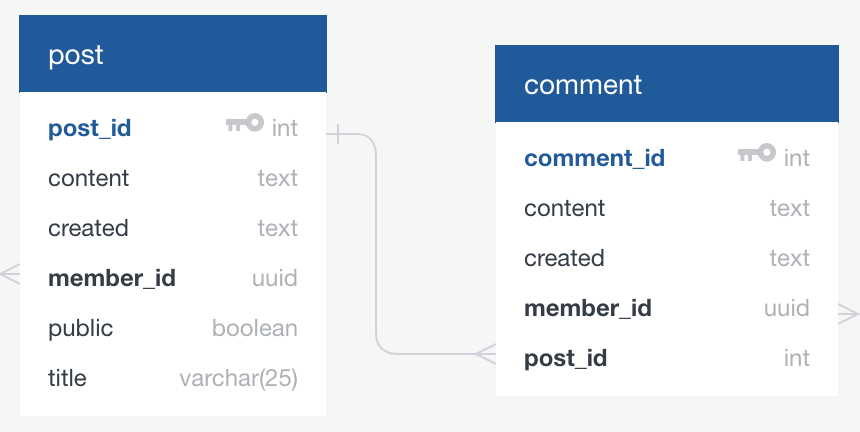
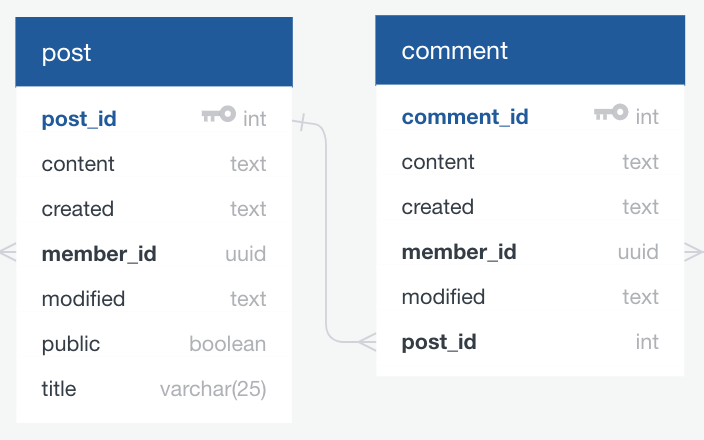
Add modified time for posts, comments and users

diff --git a/tests/test_thought_writer.py b/tests/test_thought_writer.py
@@ -50,12 +50,15 @@ class TestPost(CrystalPrismTestCase):
         self.assertEqual(post['public'], False)
         self.assertEqual(post['username'], self.username)
 
-        # Ensure created timestamp matches UTC format
+        # Ensure created and modified timestamps match UTC format
         timestamp_pattern = re.compile(
             r'\d{4}-[0-1]\d-[0-3]\dT[0-2]\d:[0-5]\d:[0-6]\d\.\d{3}Z'
             )
         self.assertEqual(bool(timestamp_pattern.match(
             post['created'])), True
+            )
+        self.assertEqual(bool(timestamp_pattern.match(
+            post['modified'])), True
             )
 
         self.assertEqual(user_data['post_count'], 1)
@@ -293,12 +296,14 @@ class TestPosts(CrystalPrismTestCase):
         self.assertEqual(all(
             isinstance(post['content'], str) for post in posts), True)
 
-        # Ensure each created timestamp matches UTC format
+        # Ensure each created and modified timestamp matches UTC format
         timestamp_pattern = re.compile(
             r'\d{4}-[0-1]\d-[0-3]\dT[0-2]\d:[0-5]\d:[0-6]\d\.\d{3}Z'
             )
         self.assertEqual(all(bool(timestamp_pattern.match(
             post['created'])) for post in posts), True)
+        self.assertEqual(all(bool(timestamp_pattern.match(
+            post['modified'])) for post in posts), True)
 
         # Ensure each post id is an integer
         self.assertEqual(all(isinstance(
@@ -386,12 +391,14 @@ class TestPosts(CrystalPrismTestCase):
         self.assertEqual(all(
             isinstance(post['content'], str) for post in posts), True)
 
-        # Ensure each created timestamp matches UTC format
+        # Ensure each created and modified timestamp matches UTC format
         timestamp_pattern = re.compile(
             r'\d{4}-[0-1]\d-[0-3]\dT[0-2]\d:[0-5]\d:[0-6]\d\.\d{3}Z'
             )
         self.assertEqual(all(bool(timestamp_pattern.match(
             post['created'])) for post in posts), True)
+        self.assertEqual(all(bool(timestamp_pattern.match(
+            post['modified'])) for post in posts), True)
 
         # Ensure each post id is an integer
         self.assertEqual(all(isinstance(
@@ -597,12 +604,15 @@ class TestComment(CrystalPrismTestCase):
 
         self.assertEqual(post['comment_count'], comment_count + 1)
 
-        # Ensure created timestamp matches UTC format
+        # Ensure created and modified timestamp matches UTC format
         timestamp_pattern = re.compile(
             r'\d{4}-[0-1]\d-[0-3]\dT[0-2]\d:[0-5]\d:[0-6]\d\.\d{3}Z'
             )
         self.assertEqual(bool(timestamp_pattern.match(
             comment['created'])), True
+            )
+        self.assertEqual(bool(timestamp_pattern.match(
+            comment['modified'])), True
             )
 
         self.assertEqual(user_data['comment_count'], 1)
@@ -850,12 +860,14 @@ class TestComments(CrystalPrismTestCase):
         self.assertEqual(get_response.status_code, 200)
         self.assertEqual(len(comments), 10)
 
-        # Ensure each created timestamp matches UTC format
+        # Ensure each created and modified timestamp matches UTC format
         timestamp_pattern = re.compile(
             r'\d{4}-[0-1]\d-[0-3]\dT[0-2]\d:[0-5]\d:[0-6]\d\.\d{3}Z'
             )
         self.assertEqual(all(bool(timestamp_pattern.match(
             comment['created'])) for comment in comments), True)
+        self.assertEqual(all(bool(timestamp_pattern.match(
+            comment['modified'])) for comment in comments), True)
 
         # Ensure each comment id is an integer
         self.assertEqual(all(isinstance(comment['comment_id'], int)
@@ -933,12 +945,14 @@ class TestComments(CrystalPrismTestCase):
         self.assertEqual(get_response.status_code, 200)
         self.assertEqual(len(comments), 10)
 
-        # Ensure each created timestamp matches UTC format
+        # Ensure each created and modified timestamp matches UTC format
         timestamp_pattern = re.compile(
             r'\d{4}-[0-1]\d-[0-3]\dT[0-2]\d:[0-5]\d:[0-6]\d\.\d{3}Z'
             )
         self.assertEqual(all(bool(timestamp_pattern.match(
             comment['created'])) for comment in comments), True)
+        self.assertEqual(all(bool(timestamp_pattern.match(
+            comment['modified'])) for comment in comments), True)
 
         # Ensure each comment id is an integer
         self.assertEqual(all(isinstance(comment['comment_id'], int)

diff --git a/thought_writer/thought_writer.py b/thought_writer/thought_writer.py
@@ -53,8 +53,8 @@ def read_post(post_id):
     # Retrieve post from database
     cursor.execute(
         """
-        SELECT post.content, post.created, post.post_id, post.public,
-        post.title, cp_user.username FROM post
+        SELECT post.content, post.created, post.modified, post.post_id,
+        post.public, post.title, cp_user.username FROM post
         JOIN cp_user ON post.member_id = cp_user.member_id
         WHERE post_id = %(post_id)s;
         """,
@@ -148,6 +148,8 @@ def update_post(requester, post_id):
     cursor.execute(
         """
         UPDATE post SET title = %(title)s, content = %(content)s,
+        modified = to_char
+        (now() at time zone 'UTC', 'YYYY-MM-DD"T"HH24:MI:SS.MS"Z"'),
         public = %(public)s
         WHERE post_id = %(post_id)s;
         """,
@@ -234,8 +236,8 @@ def read_posts():
     # Retrieve public posts from database
     cursor.execute(
         """
-        SELECT post.content, post.created, post.post_id, post.public,
-        post.title, cp_user.username FROM post
+        SELECT post.content, post.created, post.modified, post.post_id,
+        post.public, post.title, cp_user.username FROM post
         JOIN cp_user ON post.member_id = cp_user.member_id
         WHERE public = TRUE AND cp_user.is_owner != TRUE
         ORDER BY created DESC;
@@ -283,8 +285,8 @@ def read_posts_for_one_user(writer_name):
     # Retrieve posts from database
     cursor.execute(
         """
-        SELECT post.content, post.created, post.post_id, post.public,
-        post.title, cp_user.username FROM post
+        SELECT post.content, post.created, post.modified, post.post_id,
+        post.public, post.title, cp_user.username FROM post
         JOIN cp_user ON post.member_id = cp_user.member_id
         WHERE LOWER(cp_user.username) = %(username)s
         ORDER BY created DESC;
@@ -398,7 +400,7 @@ def read_comment(comment_id):
     cursor.execute(
         """
         SELECT comment.comment_id, comment.content, comment.created,
-        comment.post_id, cp_user.username FROM comment
+        comment.modified, comment.post_id, cp_user.username FROM comment
         JOIN cp_user ON comment.member_id = cp_user.member_id
         WHERE comment_id = %(comment_id)s;
         """,
@@ -462,7 +464,8 @@ def update_comment(requester, comment_id):
     # Update comment in database
     cursor.execute(
         """
-        UPDATE comment SET content = %(content)s
+        UPDATE comment SET content = %(content)s, modified = to_char
+        (now() at time zone 'UTC', 'YYYY-MM-DD"T"HH24:MI:SS.MS"Z"')
         WHERE comment_id = %(comment_id)s;
         """,
         {'content': data['content'],
@@ -547,7 +550,7 @@ def read_comments(post_id):
     cursor.execute(
         """
         SELECT comment.comment_id, comment.content, comment.created,
-        comment.post_id, cp_user.username FROM comment
+        comment.modified, comment.post_id, cp_user.username FROM comment
         JOIN cp_user ON comment.member_id = cp_user.member_id
         WHERE post_id = %(post_id)s
         ORDER BY created DESC;
@@ -585,8 +588,8 @@ def read_comments_for_one_user(commenter_name):
     cursor.execute(
         """
         SELECT comment.comment_id, comment.content, comment.created,
-        comment.post_id, post.content AS post_content, post.member_id,
-        post.title, cp_user.username FROM comment
+        comment.modified, comment.post_id, post.content AS post_content,
+        post.member_id, post.title, cp_user.username FROM comment
         JOIN post ON comment.post_id = post.post_id
         JOIN cp_user ON comment.member_id = cp_user.member_id
         WHERE LOWER(cp_user.username) = %(username)s

diff --git a/management.py b/management.py
@@ -46,6 +46,8 @@ def initialize_database():
         is_owner boolean NOT NULL DEFAULT false,
         last_name varchar(50),
         member_id uuid DEFAULT uuid_generate_v4() PRIMARY KEY,
+        modified text NOT NULL DEFAULT to_char
+        (now() at time zone 'UTC', 'YYYY-MM-DD"T"HH24:MI:SS.MS"Z"'),
         name_public boolean DEFAULT false,
         password text NOT NULL,
         status status NOT NULL DEFAULT 'active',
@@ -72,6 +74,8 @@ def initialize_database():
         created text NOT NULL DEFAULT to_char
         (now() at time zone 'UTC', 'YYYY-MM-DD"T"HH24:MI:SS.MS"Z"'),
         member_id uuid REFERENCES cp_user(member_id) ON DELETE CASCADE,
+        modified text NOT NULL DEFAULT to_char
+        (now() at time zone 'UTC', 'YYYY-MM-DD"T"HH24:MI:SS.MS"Z"'),
         post_id SERIAL PRIMARY KEY,
         public boolean NOT NULL DEFAULT false,
         title varchar(25) NOT NULL);
@@ -82,6 +86,8 @@ def initialize_database():
         created text NOT NULL DEFAULT to_char
         (now() at time zone 'UTC', 'YYYY-MM-DD"T"HH24:MI:SS.MS"Z"'),
         member_id uuid REFERENCES cp_user(member_id) ON DELETE CASCADE,
+        modified text NOT NULL DEFAULT to_char
+        (now() at time zone 'UTC', 'YYYY-MM-DD"T"HH24:MI:SS.MS"Z"'),
         post_id int REFERENCES post(post_id) ON DELETE CASCADE);
 
         CREATE TABLE IF NOT EXISTS drawing (

diff --git a/user/user.py b/user/user.py
@@ -252,6 +252,7 @@ def read_user(requester):
     # requester
     user_data.pop('is_owner')
     user_data.pop('member_id')
+    user_data.pop('modified')
     user_data.pop('password')
 
     return jsonify(user_data)
@@ -323,7 +324,8 @@ def update_user(requester):
         name_public = %(name_public)s, email = %(email)s,
         email_public = %(email_public)s,
         background_color = %(background_color)s, icon_color = %(icon_color)s,
-        about = %(about)s
+        about = %(about)s, modified = to_char
+        (now() at time zone 'UTC', 'YYYY-MM-DD"T"HH24:MI:SS.MS"Z"')
         WHERE LOWER(username) = %(old_username)s;
         """,
         {'username': username,
@@ -533,6 +535,7 @@ def read_user_public(username):
     user_data.pop('email_public')
     user_data.pop('is_owner')
     user_data.pop('member_id')
+    user_data.pop('modified')
     user_data.pop('name_public')
     user_data.pop('password')
 

diff --git a/README.md b/README.md
@@ -475,6 +475,7 @@ Note that the following environment variables must be set:
     "content": "Welcome to Thought Writer, a community post board for you to write your ideas for the world to see. You can also create your own private posts or comment on others' posts. Click the yellow paper icon to get started!",
     "comment_count": 2,
     "created": "2017-10-05T09:53:19.229Z",
+    "modified": "2017-10-05T09:53:19.229Z",
     "post_id": 1,
     "public": true,
     "title": "Welcome",
@@ -505,6 +506,7 @@ Note that the following environment variables must be set:
       "content": "<font color=\"#00c6fc\"><b>Only when you find yourself can you understand the world and your place within it. To deny oneself would be to have a limited view of the world, as you yourself are part of it not only in perception but in external interfacing and influence.</b></font>",
       "comment_count": 1,
       "created": "2017-10-27T04:31:07.332Z",
+      "modified": "2017-10-27T04:31:07.332Z",
       "post_id": 2,
       "public": true,
       "title": "Finding yourself",
@@ -514,6 +516,7 @@ Note that the following environment variables must be set:
       "content": "Welcome to Thought Writer, a community post board for you to write your ideas for the world to see. You can also create your own private posts or comment on others' posts. Click the yellow paper icon to get started!",
       "comment_count": 2,
       "created": "2017-10-05T09:53:19.229Z",
+      "modified": "2017-10-05T09:53:19.229Z",
       "post_id": 1,
       "public": true,
       "title": "Welcome",
@@ -531,6 +534,7 @@ Note that the following environment variables must be set:
       "content": "I often find inspiration in the color combinations found in nature.",
       "comment_count": 0,
       "created": "2017-10-27T04:31:07.249Z",
+      "modified": "2017-10-28T11:40:12.589Z",
       "post_id": 4,
       "public": false,
       "title": "The Beauty of Design",
@@ -540,6 +544,7 @@ Note that the following environment variables must be set:
       "content": "<font color=\"#00c6fc\"><b>Only when you find yourself can you understand the world and your place within it. To deny oneself would be to have a limited view of the world, as you yourself are part of it not only in perception but in external interfacing and influence.</b></font>",
       "comment_count": 1,
       "created": "2017-10-27T04:31:07.332Z",
+      "modified": "2017-10-27T04:31:07.332Z",
       "post_id": 2,
       "public": true,
       "title": "Finding yourself",
@@ -564,8 +569,9 @@ Note that the following environment variables must be set:
 ```javascript
 {
     "comment_id": 1,
-    "content": "I really like this post. Great writing!",
+    "content": "I really like this post.",
     "created": "2017-11-05T02:47:21.413Z",
+    "modified": "2017-11-05T02:47:21.413Z",
     "post_id": 1,
     "username": "esther"
 }
@@ -592,6 +598,7 @@ Note that the following environment variables must be set:
       "comment_id": 3,
       "content": "Anytime!",
       "created": "2017-11-05T03:32:59.182Z"
+      "modified": "2017-11-05T03:32:59.182Z"
       "post_id": 1,
       "username": "admin"
     },
@@ -599,6 +606,7 @@ Note that the following environment variables must be set:
       "comment_id": 2,
       "content": "Thanks for welcoming me!",
       "created": "2017-11-05T02:50:01.246Z"
+      "modified": "2017-11-05T02:50:01.246Z"
       "post_id": 1,
       "username": "esther"
     }
@@ -614,6 +622,7 @@ Note that the following environment variables must be set:
     "comment_id": 6,
     "content": "Wow... I feel the same way.",
     "created": "2017-12-01T01:25:20.435Z"
+    "modified": "2017-12-01T01:25:20.435Z"
     "post_id": 3,
     "post_content": "Sometimes life is hard.",
     "title": "Today I feel...",
@@ -624,6 +633,7 @@ Note that the following environment variables must be set:
     "comment_id": 2,
     "content": "Thanks for welcoming me!",
     "created": "2017-11-05T02:50:01.246Z"
+    "modified": "2017-11-05T02:50:01.246Z"
     "post_id": 1,
     "post_content": "Welcome to Thought Writer, a community post board for you to write your ideas for the world to see. You can also create your own private posts or comment on others' posts. Click the yellow paper icon to get started!",
     "title": "Welcome",
@@ -634,6 +644,7 @@ Note that the following environment variables must be set:
     "comment_id": 1,
     "content": "I really like this post. Great writing!",
     "created": "2017-11-05T02:47:21.413Z",
+    "modified": "2017-11-05T03:15:16.003Z",
     "post_id": 2,
     "post_content": "<font color=\"#00c6fc\"><b>Only when you find yourself can you understand the world and your place within it. To deny oneself would be to have a limited view of the world, as you yourself are part of it not only in perception but in external interfacing and influence.</b></font>",
     "title": "Finding yourself",
